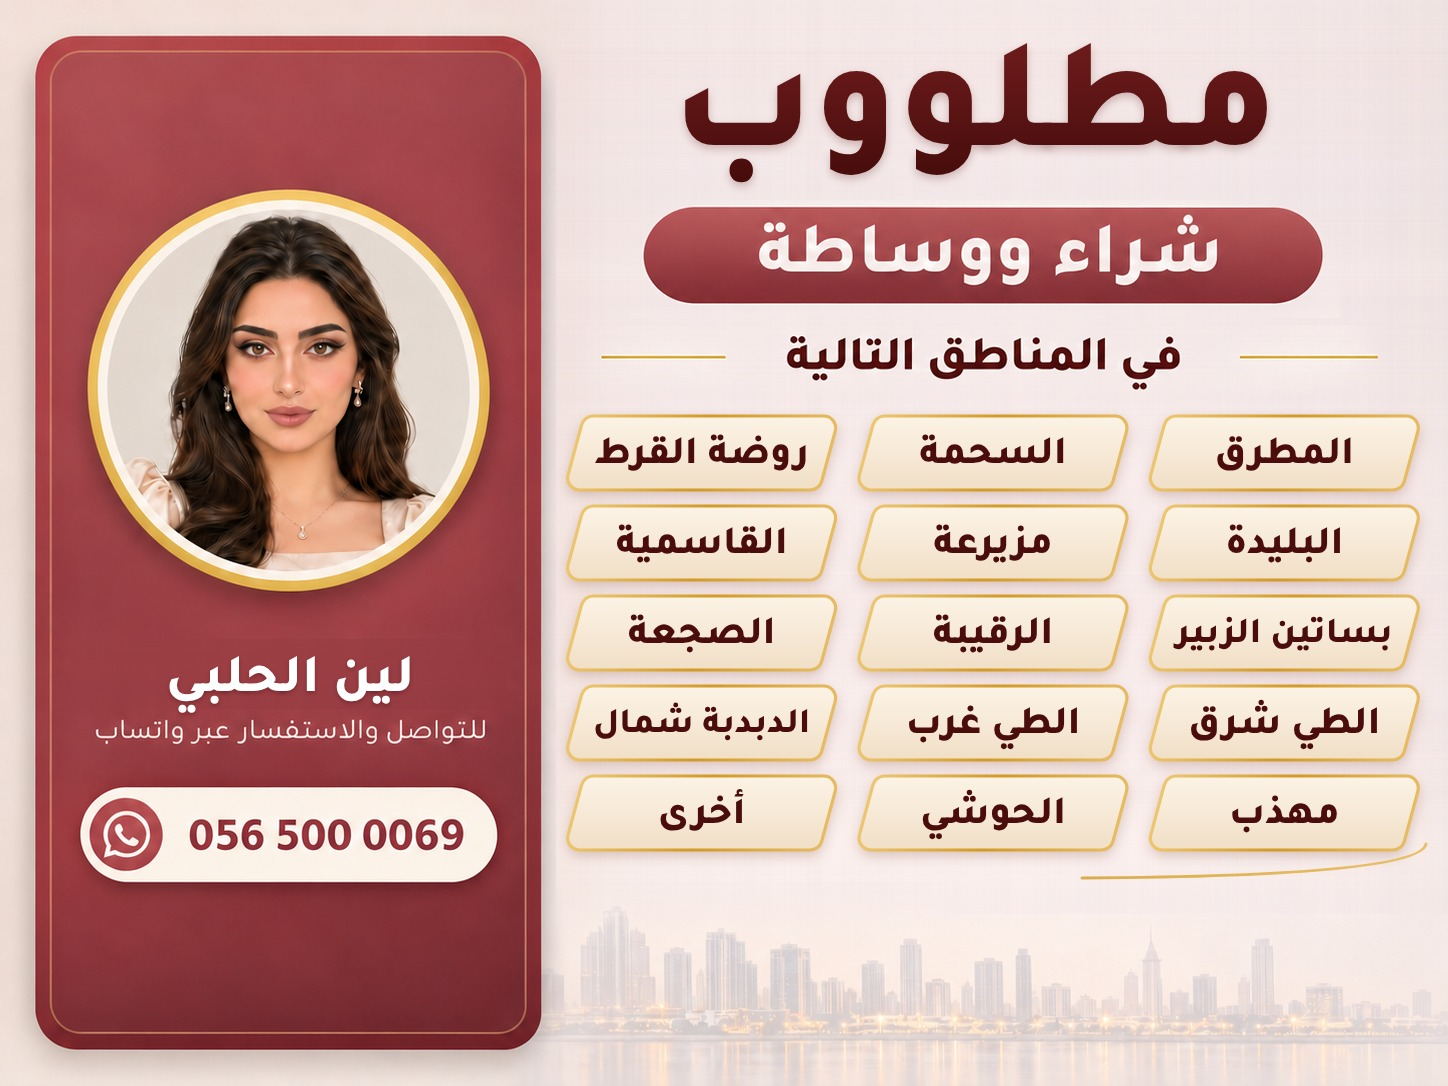
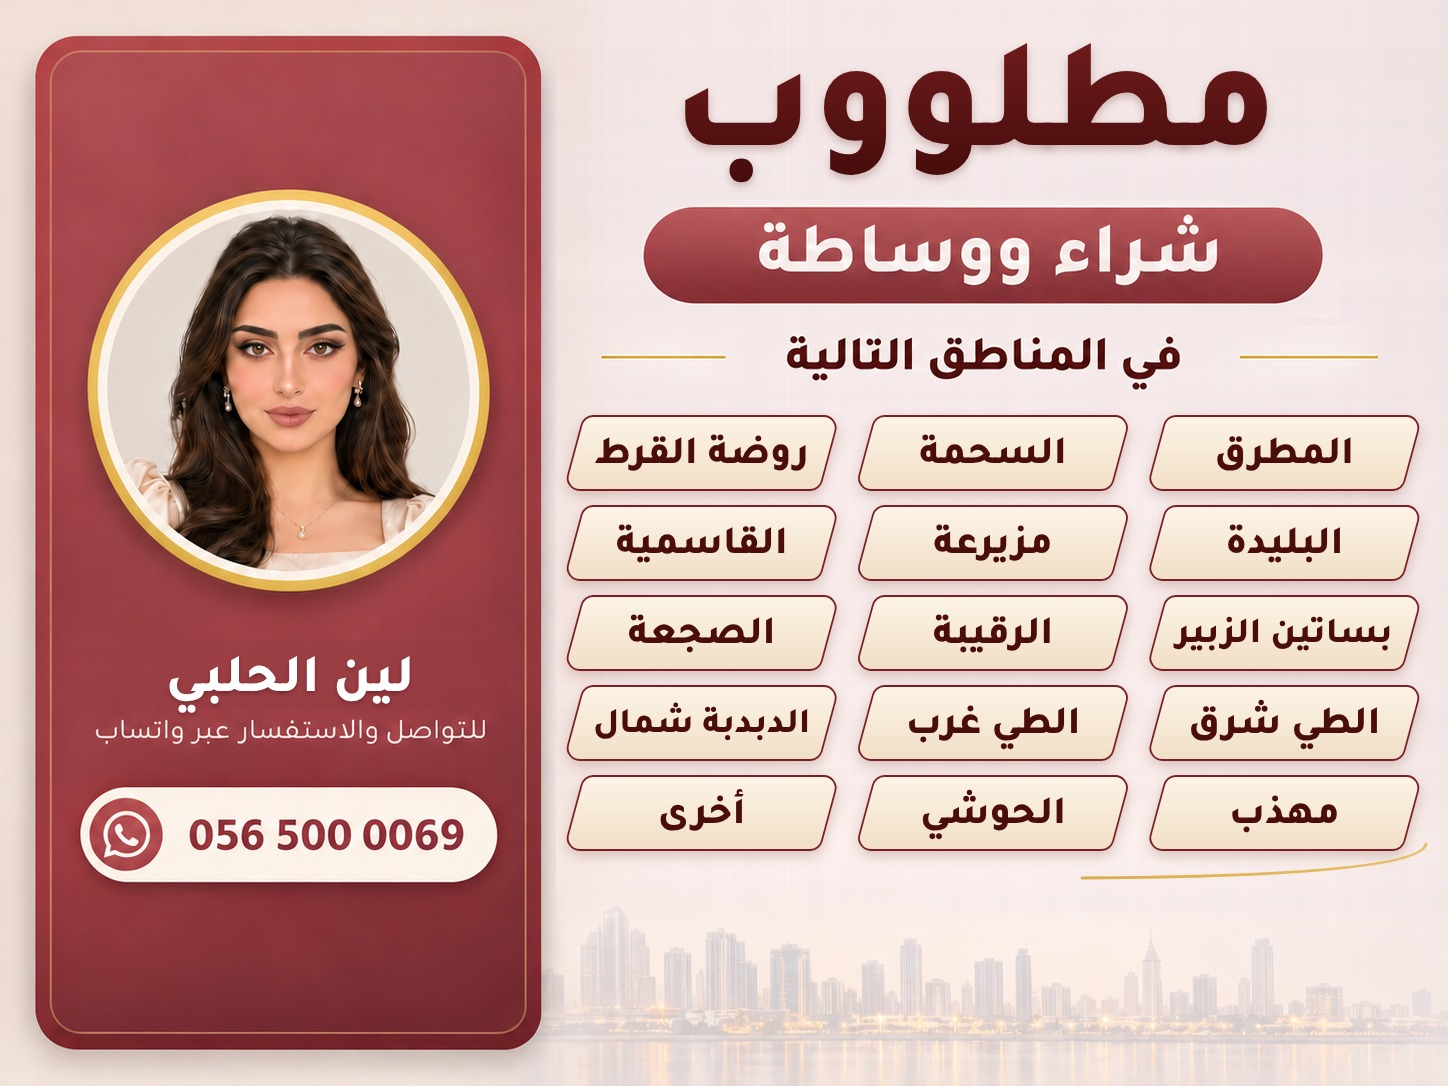
Leen general ad: thin maroon tile outlines; English-name and Arabic+English versions of design 3
Claude-Session: https://claude.ai/code/session_01TNQFQrYm3DeSmj7F2pKvQx

diff --git a/src/adgen.js b/src/adgen.js
@@ -53,7 +53,7 @@ const ayaArt = {}; let ayaReady = null;
 function ayaLoad() {
   if (ayaReady) return ayaReady;
   const ld = (n) => new Promise((r) => { const im = new Image(); im.onload = () => r(im); im.onerror = () => r(null); im.src = './assets/ad/' + n; });
-  return (ayaReady = Promise.all([ld('aya-base.jpg'), ld('aya-icons.png'), ld('oy-flag.png'), ld('ar-icons.png'), ld('ar-avatar.jpg'), ld('ayk-base.jpg'), ld('ayk-icons.png'), ld('wr-avatar.jpg'), ...[1, 2, 3, 4, 5].map((n) => ld('wg-' + n + '.jpg'))]).then(([b, i, f, ai, av, kb, ki, wr, ...wg]) => { ayaArt.wrAv = wr; wg.forEach((im, k) => { ayaArt['wg' + (k + 1)] = im; }); ayaArt.pbase = ayaArt.base = b; ayaArt.picons = ayaArt.icons = i; ayaArt.oyFlag = f; ayaArt.arIcons = ai; ayaArt.arAv = av; ayaArt.kbase = kb; ayaArt.kicons = ki; }));
+  return (ayaReady = Promise.all([ld('aya-base.jpg'), ld('aya-icons.png'), ld('oy-flag.png'), ld('ar-icons.png'), ld('ar-avatar.jpg'), ld('ayk-base.jpg'), ld('ayk-icons.png'), ld('wr-avatar.jpg'), ...[1, 2, 3, 4, 5, 6, 7].map((n) => ld('wg-' + n + '.jpg'))]).then(([b, i, f, ai, av, kb, ki, wr, ...wg]) => { ayaArt.wrAv = wr; wg.forEach((im, k) => { ayaArt['wg' + (k + 1)] = im; }); ayaArt.pbase = ayaArt.base = b; ayaArt.picons = ayaArt.icons = i; ayaArt.oyFlag = f; ayaArt.arIcons = ai; ayaArt.arAv = av; ayaArt.kbase = kb; ayaArt.kicons = ki; }));
 }
 const AYA_PINK = { kick: '#A85E5E', title: '#655454', proj: '#A3504D', sub: '#605050', card: '#F0E5E1', cTitle: '#3E3330', cVal: '#A85E5D', tag: '#46372F', phone: '#A95F5E', addr: '#6A4E4A', plot: '#A2474F',
   ground: '#EFE3DC', wash: 'rgba(250,232,228,0.32)', pinA: '#E7A3A8', pinB: '#B4525C', labBg: 'rgba(180,82,92,.94)', shadow: 'rgba(120,70,70,.14)', cardLine: '' };
@@ -515,7 +515,7 @@ const WR_FIELDS = [
 ];
 /* «لين واتس أب · إعلان عام» (management only): the office's own five designs (مطلوب — the areas we buy and sell in), shipped
    with the app as they are, only the area names corrected; picked with «شكل التصميم» — every other tool (text boxes, arrows…) still works on top */
-const WG_STYLES = [['1', 'بطاقات بأيقونة'], ['2', 'إطار وردي'], ['3', 'مائلة بلونين'], ['4', 'إطار ذهبي'], ['5', 'وردي كامل']];
+const WG_STYLES = [['1', 'بطاقات بأيقونة'], ['2', 'إطار وردي'], ['3', 'مائلة بلونين'], ['4', 'إطار ذهبي'], ['5', 'وردي كامل'], ['6', 'مائلة · الاسم بالإنجليزي'], ['7', 'مائلة · عربي وإنجليزي']];
 function wgDraw(c, v) {
   const im = ayaArt['wg' + (v.gSt || '1')] || ayaArt.wg1;
   if (im && im.naturalWidth) c.drawImage(im, 0, 0, AD_W, AD_H);
